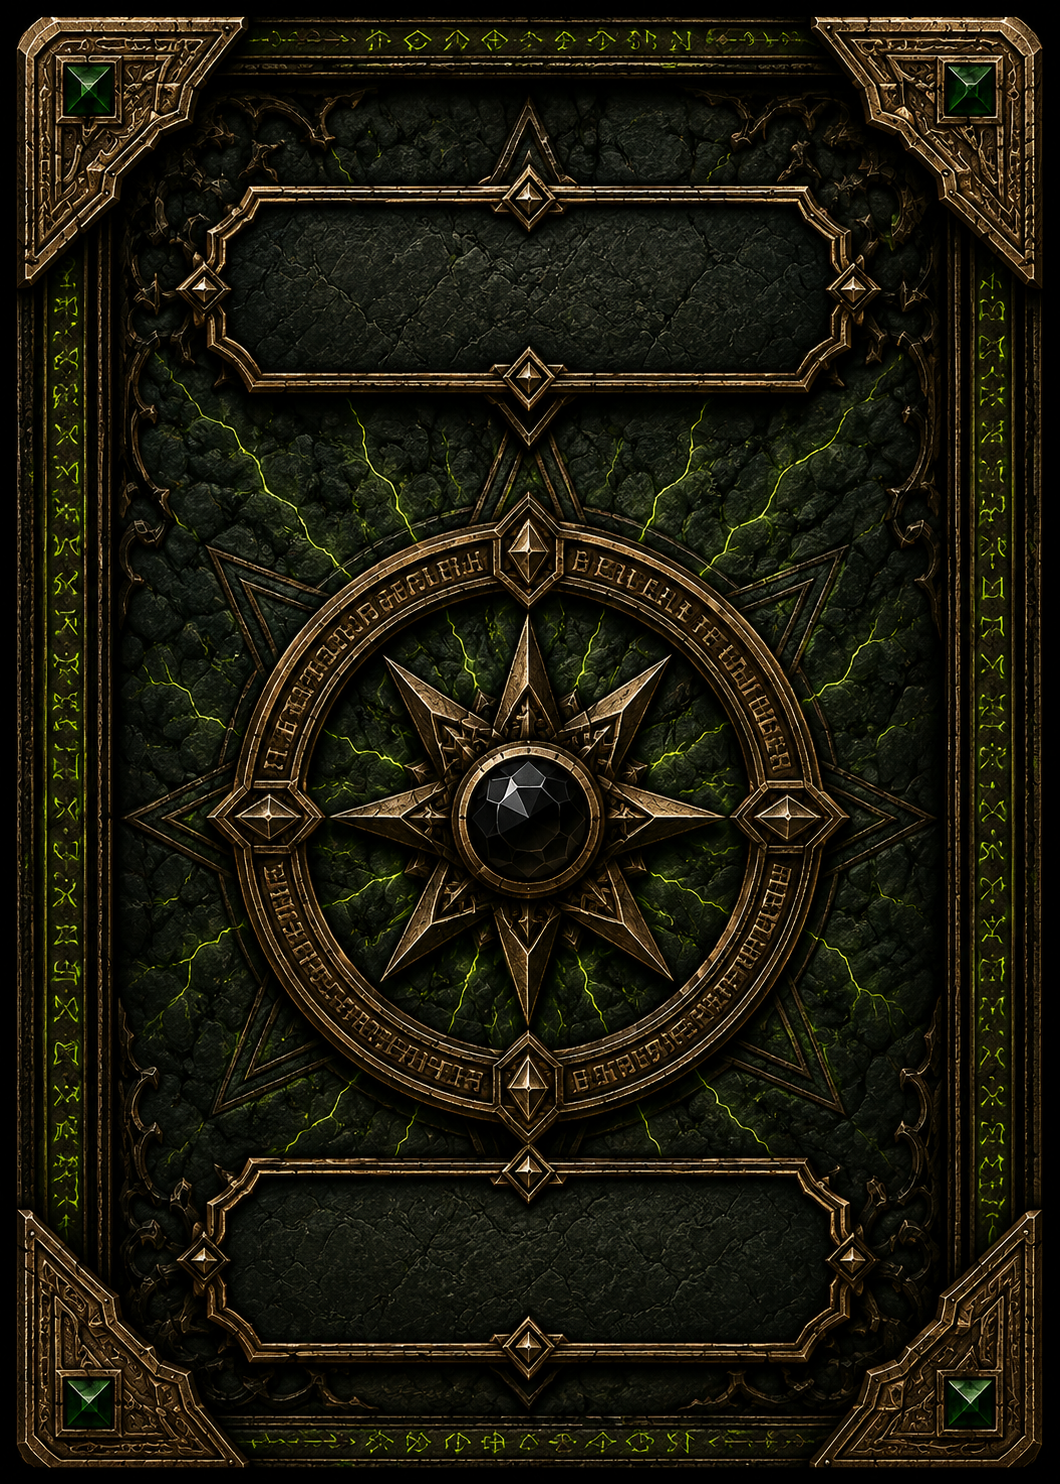
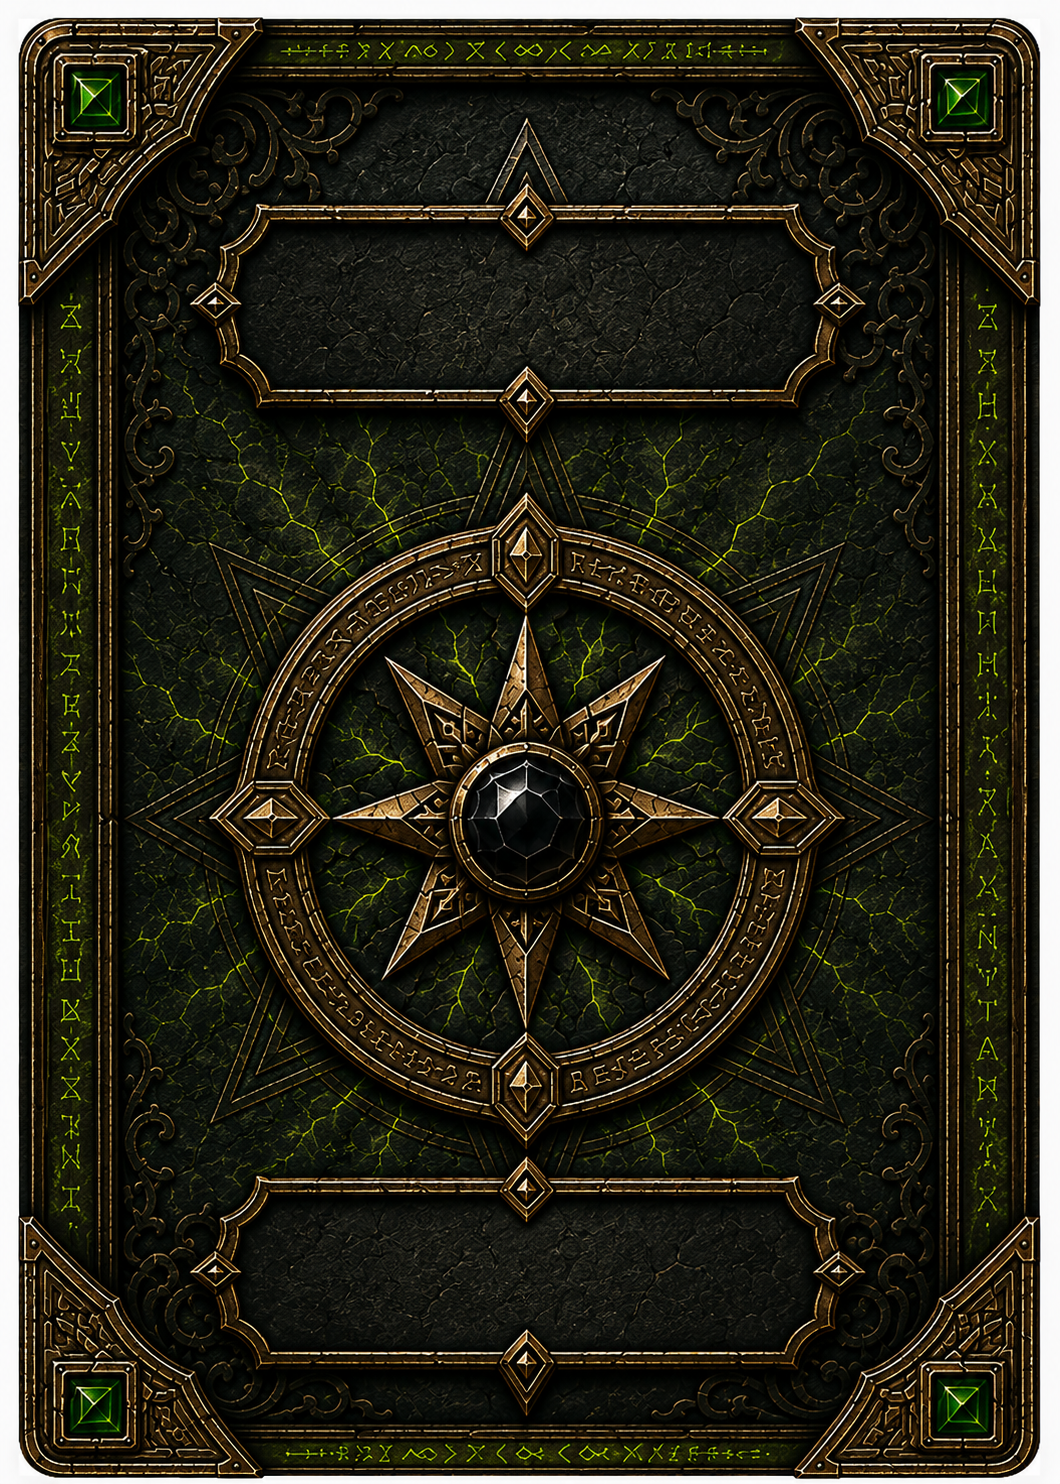
V0.3.4 Taille physique fixe des cartes PDF

diff --git a/src/main/java/fr/pathfinder/impression/PdfExporter.java b/src/main/java/fr/pathfinder/impression/PdfExporter.java
@@ -35,9 +35,10 @@ public class PdfExporter {
     private static final int LIGNES = 3;
     private static final int CARTES_PAR_PAGE = COLONNES * LIGNES;
 
-    private static final float MARGE = 20;
-    private static final float ESPACEMENT = 4;
-    private static final float RATIO_CARTE = 490f / 350f;
+    private static final float POINTS_PAR_MM = 72f / 25.4f;
+    private static final float LARGEUR_CARTE_MM = 63.5f;
+    private static final float HAUTEUR_CARTE_MM = 88.9f;
+    private static final float ESPACEMENT_MM = 2f;
 
     private static final double LARGEUR_APERCU = 350;
     private static final double HAUTEUR_APERCU = 490;
@@ -152,13 +153,24 @@ public class PdfExporter {
         float largeurPage = page.getMediaBox().getWidth();
         float hauteurPage = page.getMediaBox().getHeight();
 
-        float largeurCarte = (
-                largeurPage
-                        - 2 * MARGE
-                        - (COLONNES - 1) * ESPACEMENT)
-                / COLONNES;
+        float largeurCarte =
+                LARGEUR_CARTE_MM * POINTS_PAR_MM;
+        float hauteurCarte =
+                HAUTEUR_CARTE_MM * POINTS_PAR_MM;
+        float espacement =
+                ESPACEMENT_MM * POINTS_PAR_MM;
 
-        float hauteurCarte = largeurCarte * RATIO_CARTE;
+        float largeurGrille =
+                COLONNES * largeurCarte
+                        + (COLONNES - 1) * espacement;
+        float hauteurGrille =
+                LIGNES * hauteurCarte
+                        + (LIGNES - 1) * espacement;
+
+        float origineX =
+                (largeurPage - largeurGrille) / 2;
+        float origineY =
+                (hauteurPage - hauteurGrille) / 2;
 
         try (PDPageContentStream contenu = new PDPageContentStream(
                 document,
@@ -180,13 +192,12 @@ public class PdfExporter {
                     colonne = calculerColonneVerso(colonne);
                 }
 
-                float x = MARGE
-                        + colonne * (largeurCarte + ESPACEMENT);
+                float x = origineX
+                        + colonne * (largeurCarte + espacement);
 
-                float y = hauteurPage
-                        - MARGE
-                        - hauteurCarte
-                        - ligne * (hauteurCarte + ESPACEMENT);
+                float y = origineY
+                        + (LIGNES - 1 - ligne)
+                        * (hauteurCarte + espacement);
 
                 BufferedImage imageCarte = verso
                         ? capturerVerso(cartes.get(index))
